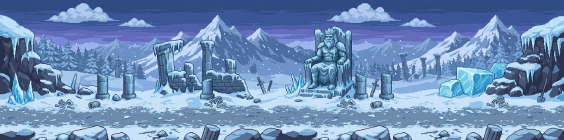
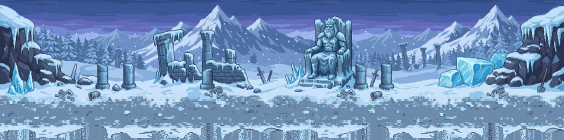
冰原 bg_05 完成版 + fg_05 + sky_mask_05 + fx_05.json(飄雪、飄雲)
Claude-Session: https://claude.ai/code/session_01VgWDma9wRVh94nUCbzKnsT

diff --git a/assets/battle/readme.md b/assets/battle/readme.md
@@ -7,5 +7,6 @@
 
 - `sky_mask_03.png`:沙漠的天空範圍(不透明處=天空)。飄動的雲只畫在這個範圍內,所以會躲在金字塔後面;雲不要低於地平線。
 - `clouds.json`:雲的形狀(4 朵,取自沙漠原圖)與各主題色盤(day 白雲 / dusk 粉雲)。森林用 day 色盤,沙漠用 dusk 色盤。
-- 暫存(只有背景,尚未切前景/調站位,之後逐張修):`bg_05`(冰原,564×140)、`bg_06`(墓穴,564×140)、`bg_07`(王座廳,282×140)、`bg_08`(魔王城,564×140)、`bg_09`(城堡大廳,564×140)。
+- 暫存(只有背景,尚未切前景/調站位,之後逐張修):`bg_06`(墓穴,564×140)、`bg_07`(王座廳,282×140)、`bg_08`(魔王城,564×140)、`bg_09`(城堡大廳,564×140)。
 - `bg_04` + `fg_04`(熔岩,564×140)已完成:上方裁掉 12 格、道路拉長,前景含底部黑石、岩尖、植物。特效參數(動態煙、火泡、火星)在 `fx_04.json`;原圖的煙保留,特效疊在上面。
+- `bg_05` + `fg_05`(冰原,564×140)已完成:上方裁掉 10 格、道路拉長,原圖的雲已削掉,改用 `clouds.json` 的雲在天空飄(`sky_mask_05.png` 讓雲躲在山後面),前景為底部雪岩與樹樁。飄雪參數在 `fx_05.json`。
